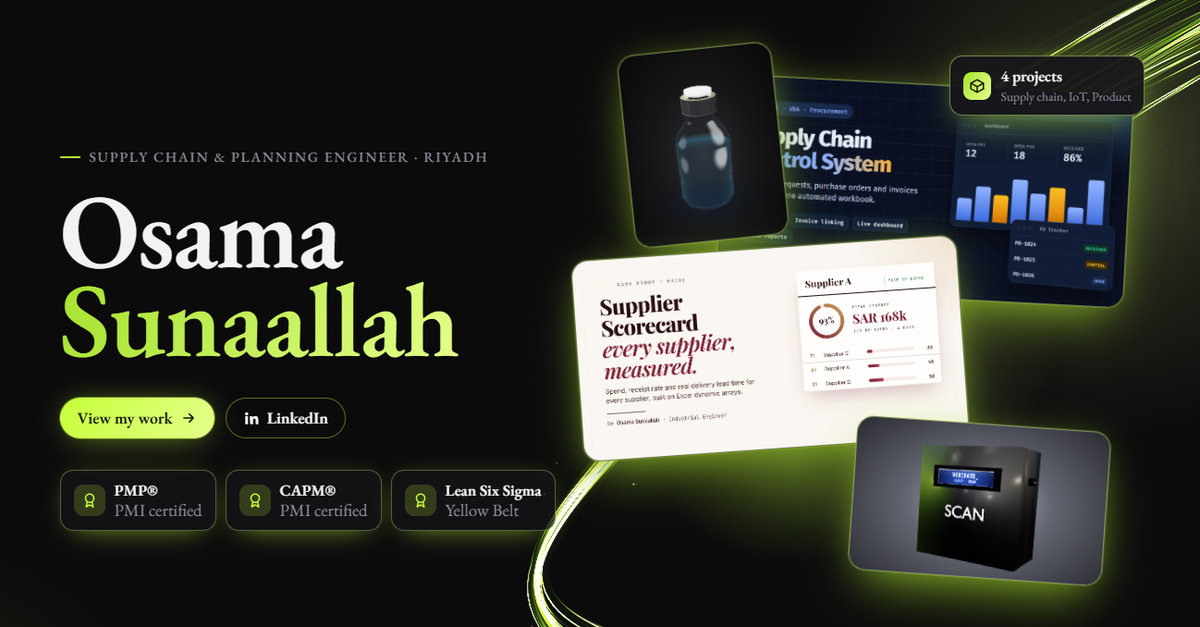
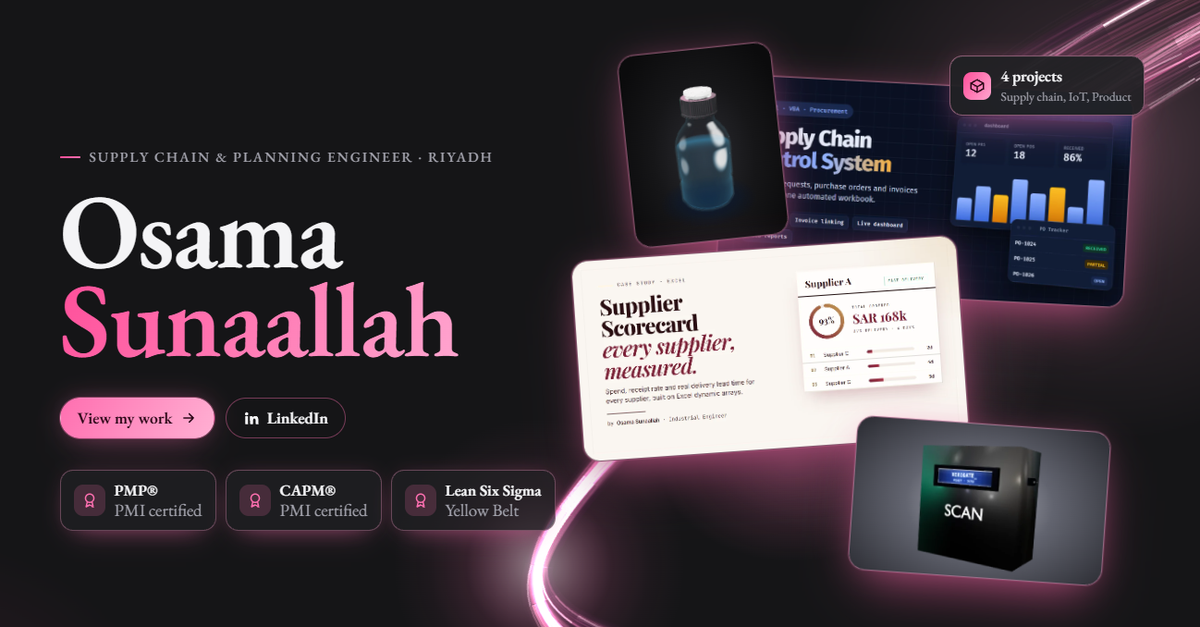
Pink dark theme: share image v12, pink 3D back-light

diff --git a/assets/hydracap3d.js b/assets/hydracap3d.js
@@ -313,8 +313,8 @@ function mountBottles(el){
   S.add(new THREE.HemisphereLight(0xf2f9ff, 0x6f8aa3, .8));
   const key = new THREE.DirectionalLight(0xffffff, 2.4); key.position.set(3, 5, 4); S.add(key);
   const rim = new THREE.DirectionalLight(0xd8efff, 1.8); rim.position.set(-4, 3, -3); S.add(rim);
-  // dark theme: a acid-lime back-light picks out the bottle's silhouette against the onyx
-  if (document.documentElement.dataset.theme !== 'light'){ const mint = new THREE.DirectionalLight(0xc6ff3a, 2.0); mint.position.set(-3.5, 1.2, -4); S.add(mint); }
+  // dark theme: a pink back-light picks out the bottle's silhouette against the onyx
+  if (document.documentElement.dataset.theme !== 'light'){ const mint = new THREE.DirectionalLight(0xff6fb0, 2.0); mint.position.set(-3.5, 1.2, -4); S.add(mint); }
   const cam = new THREE.PerspectiveCamera(30, 1, .05, 60); cam.position.copy(C.pos); cam.lookAt(C.target);
 
   const models = kind === 'duo' ? [buildCapBottle(), buildSteelBottle()] : [buildCapBottle()];
